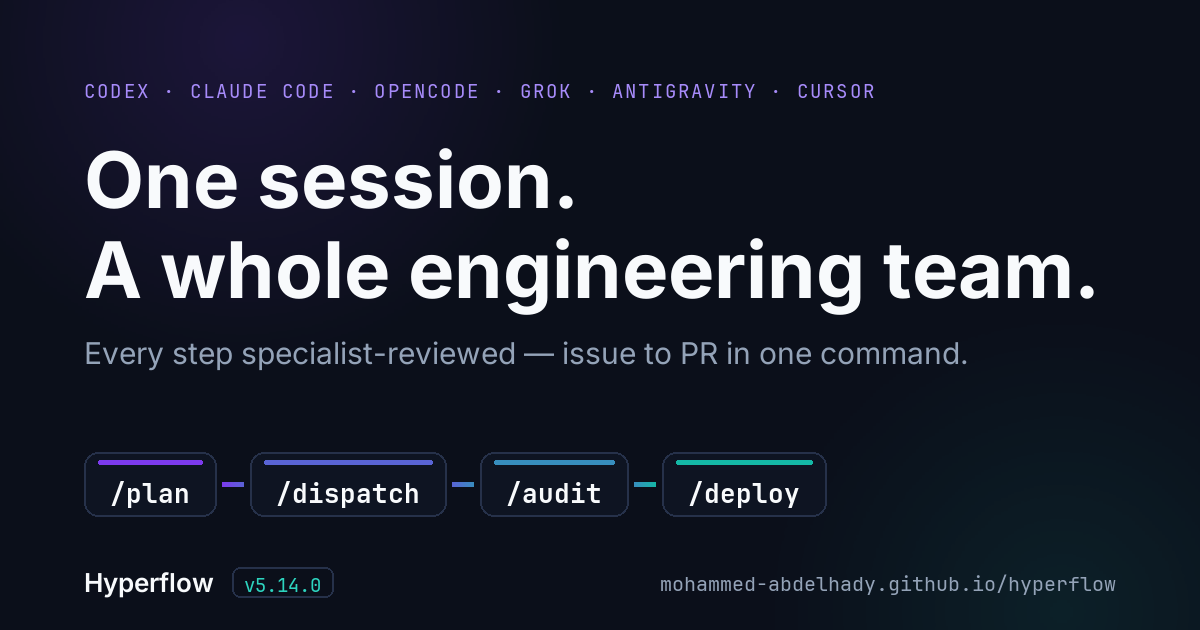
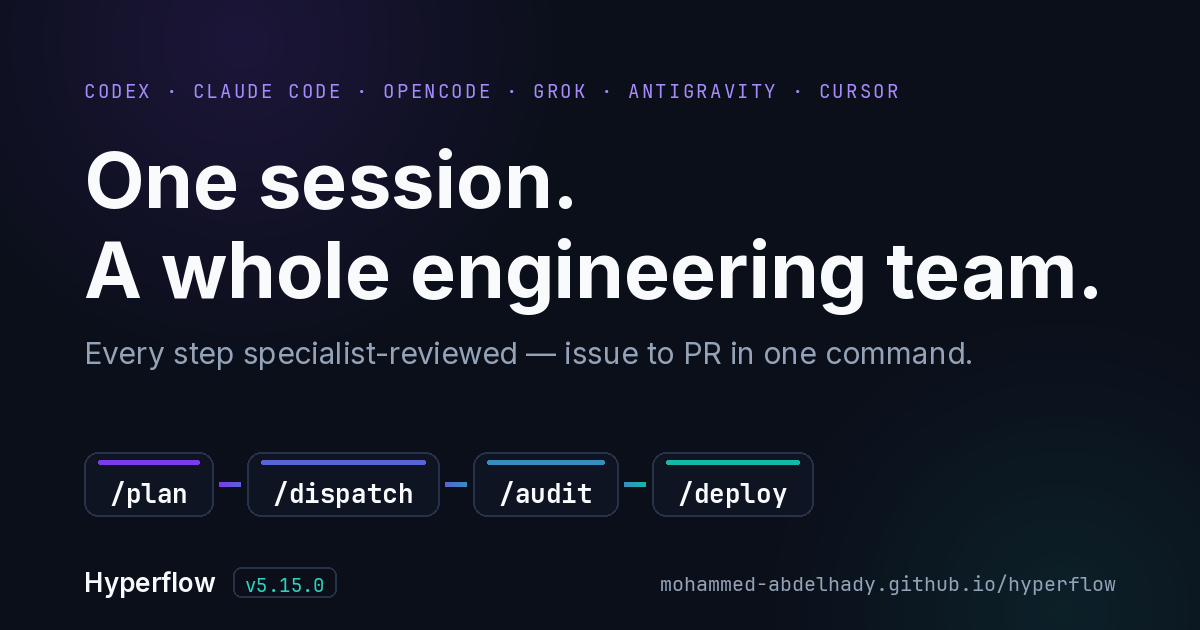
chore(release): v5.15.0

diff --git a/docs/index.html b/docs/index.html
@@ -45,7 +45,7 @@
         "name": "Hyperflow",
         "applicationCategory": "DeveloperApplication",
         "operatingSystem": "macOS, Linux",
-        "softwareVersion": "5.14.0",
+        "softwareVersion": "5.15.0",
         "description": "Rules, multi-session project memory, task templates, and a reviewed multi-agent chain for AI coding CLIs. Issue to PR when you need it. Claude Code, Codex CLI (preview; App pending), OpenCode, Grok, Antigravity, Cursor.",
         "url": "https://mohammed-abdelhady.github.io/hyperflow/",
         "downloadUrl": "https://github.com/Mohammed-Abdelhady/hyperflow",
@@ -527,7 +527,7 @@
     <div class="footer-inner">
       <div class="footer-left">
         <a href="#hero" class="footer-wordmark">Hyperflow</a>
-        <span class="footer-meta"><span class="footer-version">v5.14.0</span> · MIT · © 2026 Mohammed Abdelhady</span>
+        <span class="footer-meta"><span class="footer-version">v5.15.0</span> · MIT · © 2026 Mohammed Abdelhady</span>
       </div>
       <ul class="footer-links" role="list">
         <li><a href="installation.html">Installation</a></li>

diff --git a/docs/installation.html b/docs/installation.html
@@ -640,7 +640,7 @@
     <div class="footer-inner">
       <div class="footer-left">
         <a href="index.html" class="footer-wordmark">Hyperflow</a>
-        <span class="footer-meta"><span class="footer-version">v5.14.0</span> · MIT License</span>
+        <span class="footer-meta"><span class="footer-version">v5.15.0</span> · MIT License</span>
       </div>
       <ul class="footer-links" role="list">
         <li><a href="orchestration.html">Orchestration</a></li>

diff --git a/docs/orchestration.html b/docs/orchestration.html
@@ -777,7 +777,7 @@
     <div class="footer-inner">
       <div class="footer-left">
         <a href="index.html" class="footer-wordmark">Hyperflow</a>
-        <span class="footer-meta"><span class="footer-version">v5.14.0</span> · MIT License</span>
+        <span class="footer-meta"><span class="footer-version">v5.15.0</span> · MIT License</span>
       </div>
       <ul class="footer-links" role="list">
         <li><a href="installation.html">Installation</a></li>

diff --git a/docs/404.html b/docs/404.html
@@ -75,7 +75,7 @@
     <div class="footer-inner">
       <div class="footer-left">
         <a href="index.html" class="footer-wordmark">Hyperflow</a>
-        <span class="footer-meta"><span class="footer-version">v5.14.0</span> · MIT License</span>
+        <span class="footer-meta"><span class="footer-version">v5.15.0</span> · MIT License</span>
       </div>
       <ul class="footer-links" role="list">
         <li><a href="installation.html">Installation</a></li>

diff --git a/CHANGELOG.md b/CHANGELOG.md
@@ -7,6 +7,65 @@ and this project adheres to [Semantic Versioning](https://semver.org/spec/v2.0.0
 
 ## [Unreleased]
 
+## [5.15.0] — 2026-07-18
+
+### Added
+- Require Codex certification before tagging
+- Machine-readable automatic network and write contract
+- Complete runtime-contract wiring for entry skills
+- Wire portable runtime-contract into skill bodies
+- Render specialist charters for Codex
+- Make Codex lifecycle and AGENTS updates safe
+- Define portable workflow operations
+- Enforce Codex plugin contracts
+- Add provider capability resolution
+- Auto-scaffold on first use, elevate permissions setup, gh auth preflight
+- Add reference-drift detector (advisory; distinguishes drift from tailored subsets)
+- Self-contained read-only artefact export (zero upload, offline)
+- Artefact index route + searchable home screen (real artefacts)
+- Telemetry/ROI dashboard — stat tiles + sparkline usage view
+- Add usage-aggregate.py cross-chain ledger rollup
+- Wire onNode->brief, measured edge anchors, viewer.markdown=always; drop dead tokens.json
+- Accessibility — skip-link, scoped live region, graph roles, flip state, route focus
+- Live dispatch progress via poll+re-render, stops at terminal
+- Reproduce artefact-format.md faithfully (status metrics, diagram, cost, briefs)
+- Widen payload contract (cost/progress/briefs) + add usage type
+
+### Fixed
+- Clear shellcheck SC2120 and tighten Codex claim honesty
+- Harden cert evidence, transcript reads, and audit-fix docs
+- Read Codex aliases from hook-runtime after launcher split
+- Align TYPES with artefact_lib (include usage)
+- HTML-escape artefact title in export to prevent XSS
+- Keyboard-activate graph nodes, usage view coherence, poll leak guard + SR announce
+
+### Changed
+- Sync certified support surfaces
+- Gate Codex claims on certification
+- Publish certified support and privacy matrix
+- Separate App and app-server certification
+- Add CLI workflow conformance
+- Add isolated plugin lifecycle conformance
+- Enforce shared-reference portability
+- Migrate shared workflow references
+- Migrate shared orchestration prompts
+- Normalize PR and diagnosis references
+- Normalize execution references
+- Normalize cache deploy scaffold references
+- Normalize shared runtime references
+- Normalize canonical orchestration references
+- Normalize provider lifecycle handling
+- Freeze existing provider behavior
+- Rewrite product story around memory, rules, and templates
+- Split rarely-loaded detail out of DOCTRINE.md
+- Proof link to real reviewed PRs + prepared official-registry submission checklist
+- Unify landing hero to the issue→PR line + add visual-artefacts viewer section
+- Barycenter crossing-minimization + drag-to-pan for large graphs
+- Extract graph-core.js + node unit tests for parser/layout
+- Cover migrate-cache version ordering, no-op, migration, idempotency, no-clobber
+- Cover archive-artefacts promotion, dedup idempotency, prune
+
+
 ## [5.14.0] — 2026-07-17
 
 ### Added
@@ -1259,7 +1318,8 @@ and this project adheres to [Semantic Versioning](https://semver.org/spec/v2.0.0
 - Claude Code marketplace plugin
 - Agent labels and usage summary on task completion
 
-[Unreleased]: https://github.com/Mohammed-Abdelhady/hyperflow/compare/v5.14.0...HEAD
+[Unreleased]: https://github.com/Mohammed-Abdelhady/hyperflow/compare/v5.15.0...HEAD
+[5.15.0]: https://github.com/Mohammed-Abdelhady/hyperflow/compare/v5.14.0...v5.15.0
 [5.14.0]: https://github.com/Mohammed-Abdelhady/hyperflow/compare/v5.13.0...v5.14.0
 [5.13.0]: https://github.com/Mohammed-Abdelhady/hyperflow/compare/v5.12.0...v5.13.0
 [5.12.0]: https://github.com/Mohammed-Abdelhady/hyperflow/compare/v5.11.0...v5.12.0

diff --git a/CLAUDE.md b/CLAUDE.md
@@ -72,7 +72,7 @@ The `README.md` is the project's primary discovery surface — keep it in sync w
 
 When a change is README-relevant, prefer landing the README update in the same commit (or immediately preceding commit) as the feature itself — never as a follow-up after the tag.
 
-<!-- hyperflow:doctrine:start version=5.14.0 generated=2026-07-17T18:10:19Z body-sha=9fa520ea12c6 source=https://github.com/Mohammed-Abdelhady/hyperflow -->
+<!-- hyperflow:doctrine:start version=5.15.0 generated=2026-07-18T08:36:19Z body-sha=9fa520ea12c6 source=https://github.com/Mohammed-Abdelhady/hyperflow -->
 
 # Hyperflow Doctrine (Portable Subset)
 

diff --git a/README.md b/README.md
@@ -16,7 +16,7 @@
 </p>
 
 <p align="center">
-  <img src="https://img.shields.io/badge/version-v5.14.0-blueviolet?style=flat-square" alt="version v5.14.0" />
+  <img src="https://img.shields.io/badge/version-v5.15.0-blueviolet?style=flat-square" alt="version v5.15.0" />
   &nbsp;
   <img src="https://img.shields.io/github/actions/workflow/status/Mohammed-Abdelhady/hyperflow/plugin-validation.yml?style=flat-square&label=validation" alt="plugin validation status" />
   &nbsp;
